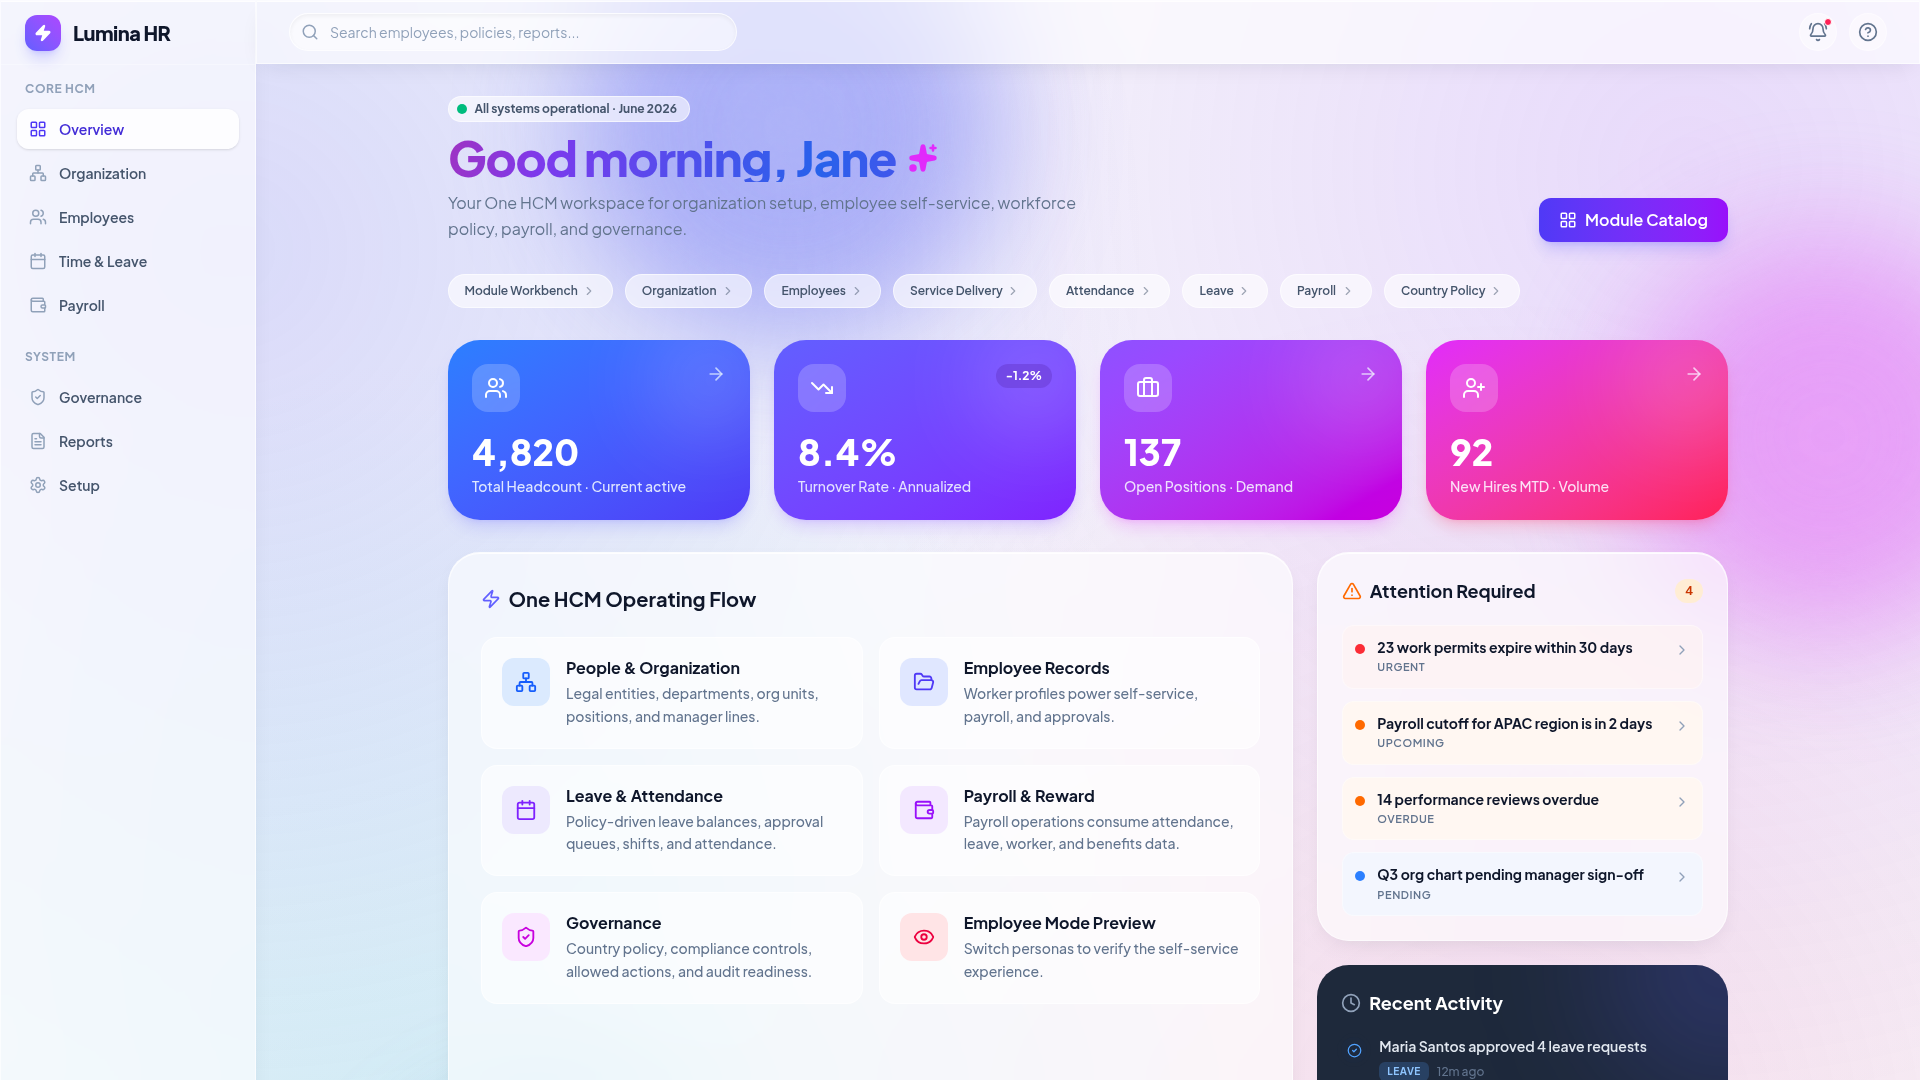
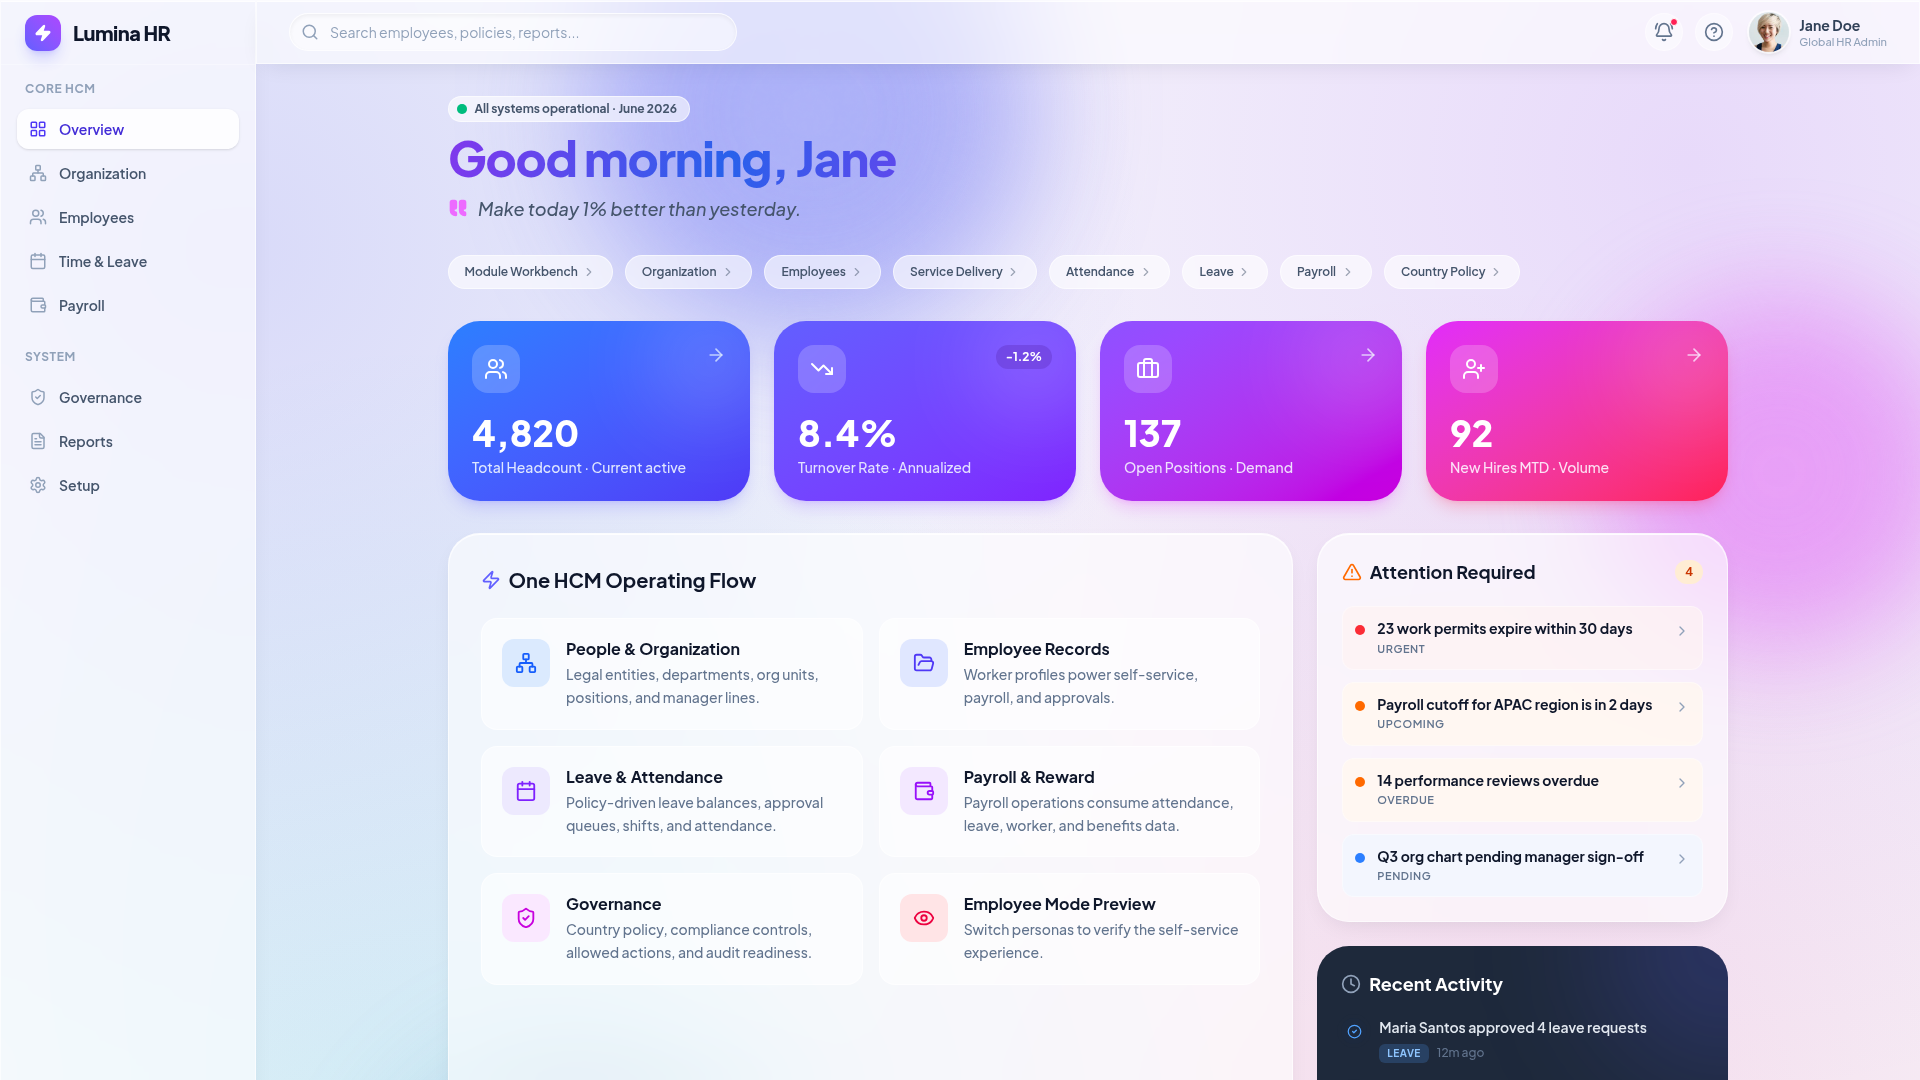
Add a clickable profile photo to the user header area
Update `Fusion.tsx` to include a new avatar component in the header that links to the user profile, and implement a daily rotating quote feature.

Replit-Commit-Author: Agent
Replit-Commit-Session-Id: 4e185bfa-7984-477e-87ea-a35de27cbb4c
Replit-Commit-Checkpoint-Type: full_checkpoint
Replit-Commit-Event-Id: ff9b05c7-250a-4015-a17b-7d79e2ba2dbf
Replit-Commit-Screenshot-Url: https://storage.googleapis.com/screenshot-production-us-central1/4ba3be44-b2b7-437a-b9c0-b3eb791af892/4e185bfa-7984-477e-87ea-a35de27cbb4c/UuCX2g5
Replit-Helium-Checkpoint-Created: true

diff --git a/artifacts/mockup-sandbox/src/components/mockups/hr-dashboard/Fusion.tsx b/artifacts/mockup-sandbox/src/components/mockups/hr-dashboard/Fusion.tsx
@@ -23,9 +23,40 @@ import {
   Settings,
   Zap,
   HelpCircle,
-  Sparkles,
+  Quote,
 } from "lucide-react";
 import "./fusion/_group.css";
+
+const currentUser = "Jane";
+
+const dailyQuotes = [
+  "Great teams aren't built in a day — they're built every day.",
+  "Small steps, taken daily, move mountains.",
+  "People don't work for companies, they work for people. Lead well.",
+  "Progress beats perfection. Ship the next good thing.",
+  "Culture is what you do when no one is watching.",
+  "Empower one person today and the ripple never stops.",
+  "The best time to support your team was yesterday. The second best is now.",
+  "Clarity is kindness — say the helpful thing.",
+  "Every record is a person. Every policy is a promise.",
+  "Momentum loves consistency. Keep showing up.",
+  "Hire for heart, train for skill, lead with trust.",
+  "A calm leader builds a confident team.",
+  "Make today 1% better than yesterday.",
+  "Recognition costs nothing and changes everything.",
+  "Build the workplace you wish you had.",
+];
+
+function getDailyQuote(user: string): string {
+  const now = new Date();
+  const dayOfYear = Math.floor(
+    (now.getTime() - new Date(now.getFullYear(), 0, 0).getTime()) / 86400000,
+  );
+  let userSeed = 0;
+  for (let i = 0; i < user.length; i++) userSeed += user.charCodeAt(i);
+  const index = (dayOfYear + userSeed) % dailyQuotes.length;
+  return dailyQuotes[index];
+}
 
 const moduleIcon: Record<string, string> = {
   blue: "bg-blue-100 text-blue-600",
@@ -63,6 +94,7 @@ const activityIcon: Record<string, string> = {
 };
 
 export function Fusion() {
+  const dailyQuote = getDailyQuote(currentUser);
   return (
     <div className="min-h-screen fusion-bg text-slate-900 font-['Plus_Jakarta_Sans',sans-serif] flex relative">
       {/* Floating mesh blobs — artistic depth (clipping scoped to this decorative layer only) */}
@@ -183,6 +215,26 @@ export function Fusion() {
             <button aria-label="Help" className="p-2 text-slate-500 hover:text-slate-800 transition-colors bg-white/40 hover:bg-white/70 rounded-full border border-white/50">
               <HelpCircle size={20} />
             </button>
+            <a
+              href="#"
+              aria-label="View your profile"
+              title="View your profile"
+              className="ml-1 flex items-center gap-2.5 group"
+            >
+              <img
+                src="https://randomuser.me/api/portraits/women/44.jpg"
+                alt="Jane Doe profile"
+                className="w-10 h-10 rounded-full object-cover ring-2 ring-white/70 shadow-md group-hover:ring-indigo-400 group-hover:scale-105 transition-all"
+              />
+              <span className="hidden xl:flex flex-col leading-tight">
+                <span className="text-sm font-bold text-slate-700 group-hover:text-indigo-600 transition-colors">
+                  Jane Doe
+                </span>
+                <span className="text-[11px] font-medium text-slate-400">
+                  Global HR Admin
+                </span>
+              </span>
+            </a>
           </div>
         </header>
 
@@ -199,19 +251,18 @@ export function Fusion() {
                   </span>
                   All systems operational · June 2026
                 </div>
-                <h1 className="text-4xl md:text-5xl font-extrabold tracking-tight mb-2 flex items-center gap-3">
+                <h1 className="text-4xl md:text-5xl font-extrabold tracking-tight mb-3">
                   <span className="fusion-gradient-text">Good morning, Jane</span>
-                  <Sparkles className="text-fuchsia-500 shrink-0" size={30} fill="currentColor" />
                 </h1>
-                <p className="text-slate-500 max-w-2xl text-sm md:text-base leading-relaxed">
-                  Your One HCM workspace for organization setup, employee
-                  self-service, workforce policy, payroll, and governance.
+                <p className="text-slate-600 max-w-2xl text-base md:text-lg font-medium leading-relaxed flex items-start gap-2.5">
+                  <Quote
+                    size={20}
+                    className="text-fuchsia-400 shrink-0 mt-1 -scale-x-100"
+                    fill="currentColor"
+                  />
+                  <span className="italic">{dailyQuote}</span>
                 </p>
               </div>
-              <button className="bg-gradient-to-r from-indigo-600 to-purple-600 hover:from-indigo-700 hover:to-purple-700 text-white px-5 py-2.5 rounded-xl font-semibold shadow-lg shadow-indigo-500/25 flex items-center transition-all hover:scale-105 active:scale-95 shrink-0">
-                <LayoutGrid size={18} className="mr-2" />
-                Module Catalog
-              </button>
             </div>
 
             {/* Quick links */}
